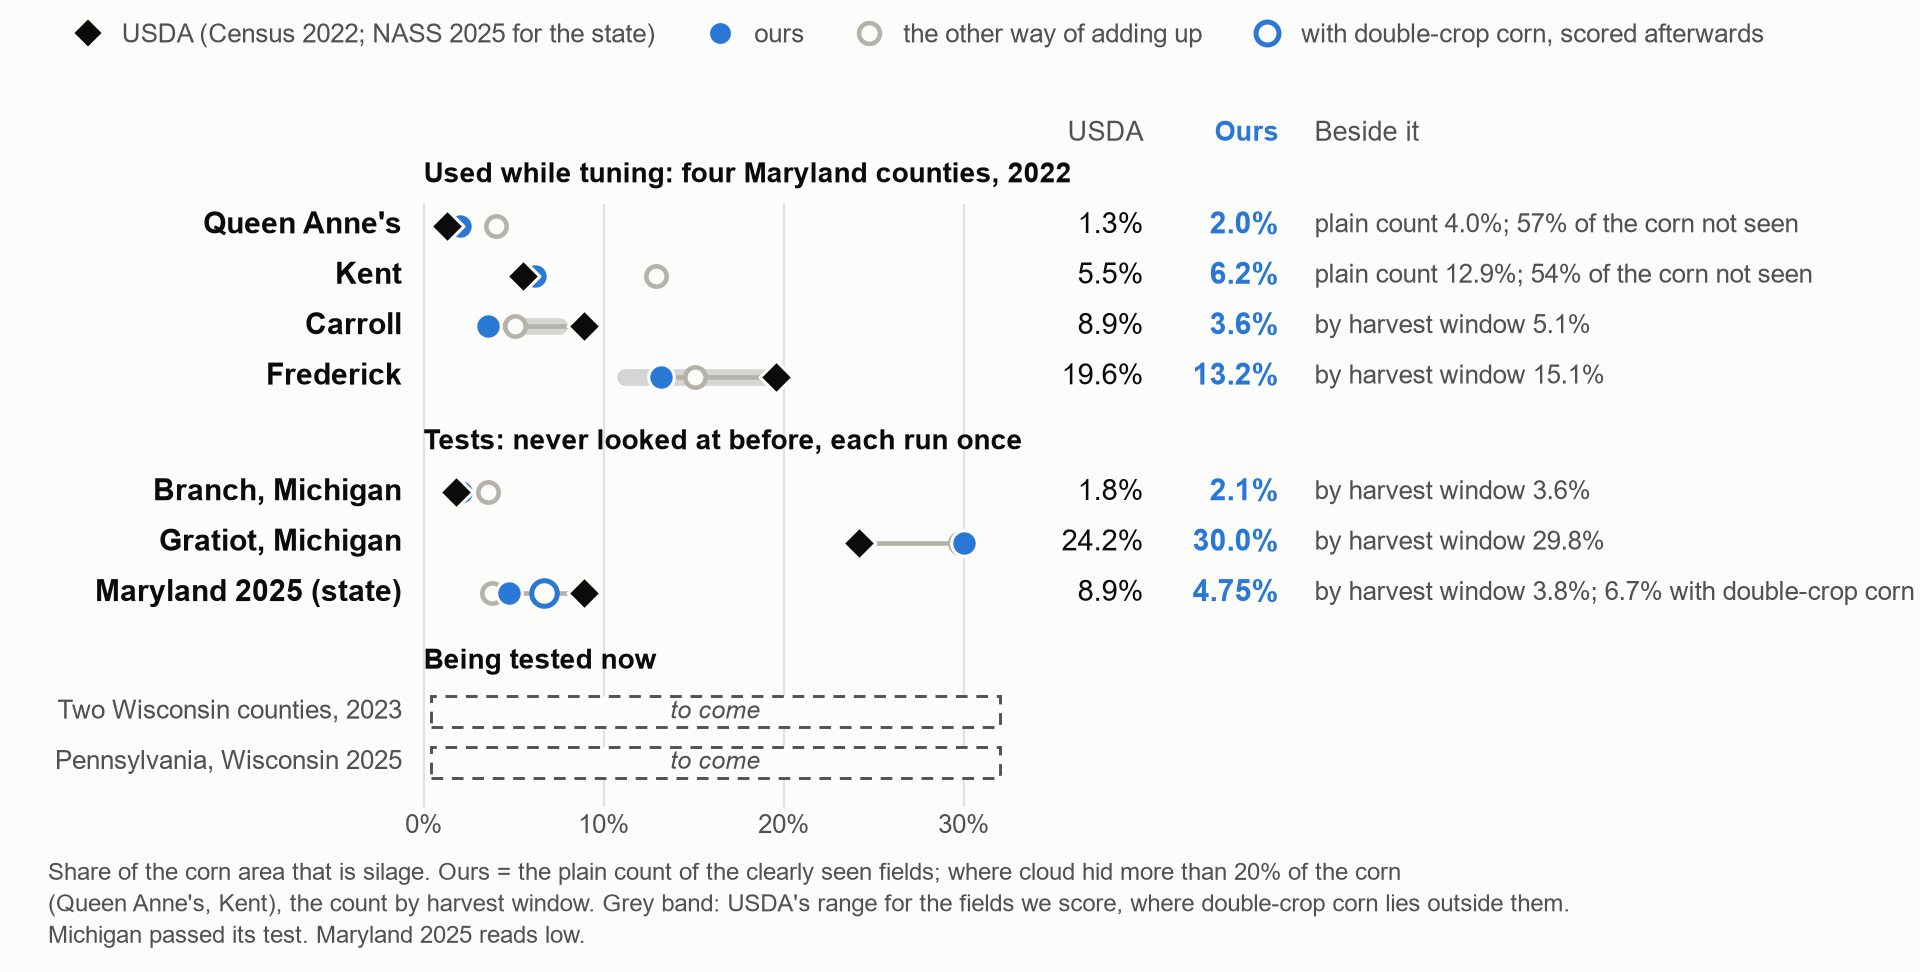
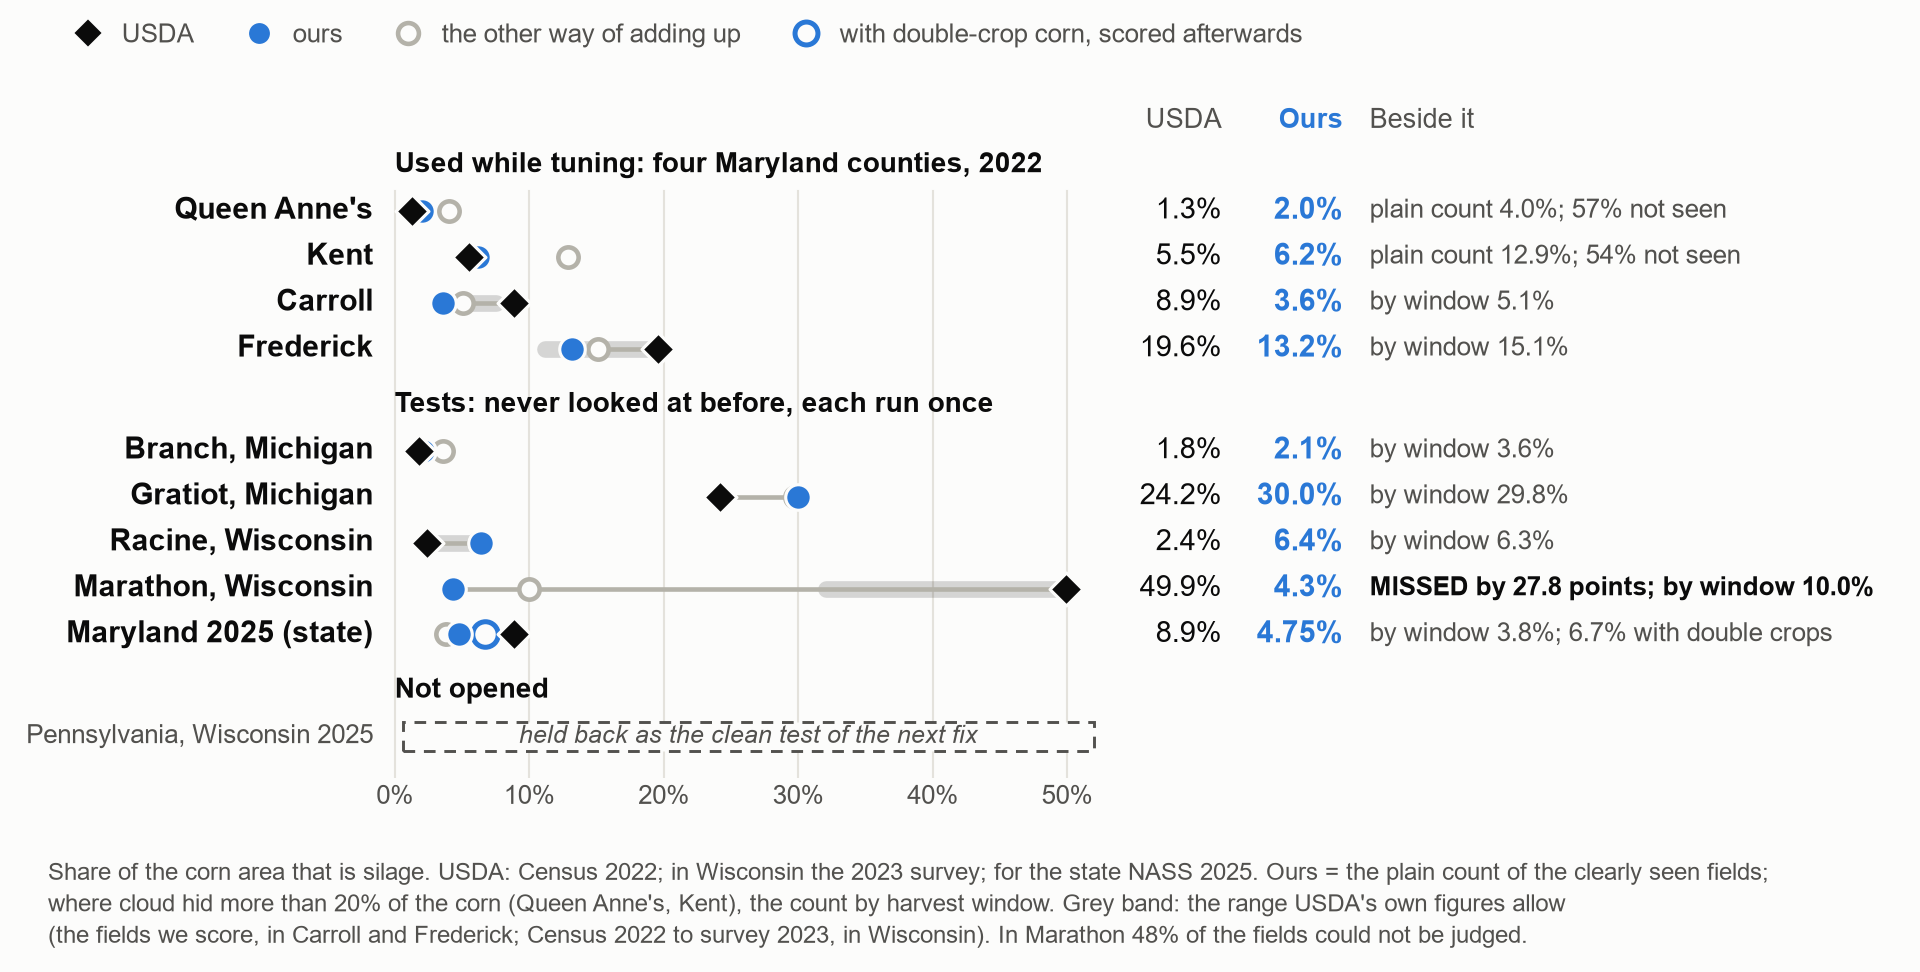
Deck: Wisconsin 2023 on the results slide with Marathon marked as a miss, the open problem in the table, the two team boxes filled

diff --git a/docs/pitch/build_deck.py b/docs/pitch/build_deck.py
@@ -221,11 +221,12 @@ def build(out):
           "我们的模型很小：六个数加一个简单公式，只用欧洲的地块训练。在美国 44 个带标签的地块上，它对了 42 个。一个大得多的模型对了 37 个。")
 
     # every place against USDA ---------------------------------------------------------------------
-    s = new_slide(prs, "Counties and a state: every place we checked against USDA")
+    s = new_slide(prs, "Against USDA: right where silage is rare, a clear miss in the heaviest dairy county")
     body_picture(s, "s05_places.png")
-    notes(s, "This is every place where we can compare our number with USDA. The four Maryland counties were used while tuning, "
-             "so they are not tests. The two Michigan counties passed their test, and Maryland 2025 reads low.",
-          "这是我们所有能和美国农业部数字对比的地方。马里兰的四个县在调优时用过，所以不算检验。密歇根两个县通过了检验，马里兰 2025 偏低。")
+    notes(s, "This is every place where we can compare our number with USDA. Where silage is rare we read right, and the Michigan "
+             "test passed. In the heaviest dairy county, Marathon in Wisconsin, we read far too low, and Maryland 2025 reads low too.",
+          "这是我们所有能和美国农业部数字对比的地方。青贮少的地方我们读得对，密歇根的检验通过了。"
+          "在奶牛最多的威斯康星 Marathon 县，我们读得太低；马里兰 2025 也偏低。")
 
     # what went wrong and what we did ----------------------------------------------------------------
     s = new_slide(prs, "What went wrong, and what we did about it")
@@ -245,16 +246,19 @@ def build(out):
          "Scored it with the same model, afterwards", "Maryland 2025: 4.75% → 6.7% (USDA 8.9%)"),
         ("The big model did not travel to a new country",
          "Dropped dates in training; tried a sequence model", "37 → 39 of 44; 0.817 against 0.765 in Europe"),
+        ("A northern dairy county reads far too low: Marathon 4% for 50%",
+         "Half its fields could not be judged. Cause under investigation now", "Open: a clear miss"),
     ]
-    rh = 0.78
+    rh = 0.66
     for i, cells in enumerate(fixes):
-        y = 1.85 + i * (rh + 0.07)
+        y = 1.85 + i * (rh + 0.06)
         card(s, MX, y, FULL, rh)
         for (x, w, _), cell, strong in zip(cols, cells, (False, False, True)):
             text(s, x + 0.2, y, w - 0.3, rh, cell, size=14, bold=strong, color=INK, anchor=MSO_ANCHOR.MIDDLE, spacing=1.05)
     notes(s, "Here is the tuning in one table. Each row is a problem the data showed us, what we did, and what came out. "
-             "One of them, early green grain, is still open.",
-          "这一页用一张表讲完调优过程：每一行是数据暴露出的一个问题、我们的做法和结果。其中一个，趁绿早收的籽粒玉米，还没有解决。")
+             "Two are still open: early green grain, and the miss in Marathon County.",
+          "这一页用一张表讲完调优过程：每一行是数据暴露出的一个问题、我们的做法和结果。"
+          "有两个还没解决：趁绿早收的籽粒玉米，以及 Marathon 县读数过低。")
 
     # the first county total ------------------------------------------------------------------
     f = N.FIRST_COUNTY_TOTAL
@@ -336,21 +340,21 @@ def build(out):
             arrow.line.fill.background()
             arrow.shadow.inherit = False
         x += w + gap
-    text(s, MX, 4.1, FULL, 0.35, "Around it, built by our teammates (one line each; they fill in the rest)", size=14, bold=True, color=INK)
+    text(s, MX, 4.1, FULL, 0.35, "Around it, built by our teammates", size=14, bold=True, color=INK)
     around = [
         ("Planner", "Which fields to visit."),
         ("Recommender", "Grain fields near dairies that are short of silage."),
         ("Picture check", "Looks at the before-and-after pictures of a field."),
-        ("Price module", "Details from the team."),
-        ("Four-state check", "Details from the team."),
+        ("Price module", "What the silage and grain split does to prices."),
+        ("Four-state check", "Checks 2025 in four states (PA, WI, IA, NE), about 300 fields each."),
     ]
     aw = (FULL - 4 * 0.25) / 5
     for i, (head, line) in enumerate(around):
         x = MX + i * (aw + 0.25)
-        card(s, x, 4.55, aw, 1.5)
+        card(s, x, 4.55, aw, 1.65)
         text(s, x + 0.2, 4.68, aw - 0.4, 0.4, head, size=15, bold=True, color=INK)
-        text(s, x + 0.2, 5.12, aw - 0.4, 0.85, line, size=12.5, spacing=1.1)
-    text(s, MX, 6.35, FULL, 0.7, "Our model is the blue box. The agent reaches it through the bridge, which loads the module with the small "
+        text(s, x + 0.2, 5.12, aw - 0.4, 1.0, line, size=12.5, spacing=1.1)
+    text(s, MX, 6.45, FULL, 0.7, "Our model is the blue box. The agent reaches it through the bridge, which loads the module with the small "
          "model behind it.", size=16, color=INK, spacing=1.15)
     notes(s, "This is the team's whole system. Our model is the blue box, and the agent calls it through a bridge. "
              "The other boxes are our teammates' parts.",
@@ -369,12 +373,12 @@ def build(out):
          "Score the double-crop corn that today's state number leaves out.\n\n"
          "A land-use hint (hay and pasture mean dairy), shown beside the satellite number.", size=16, color=INK, spacing=1.15)
     card(s, MX, 5.95, FULL, 1.0, fill=BLUE, line=None)
-    text(s, MX + 0.4, 5.95, FULL - 0.8, 1.0, "This is a preliminary baseline, checked in Maryland and in two Michigan counties. "
-         "Predictions anywhere else are examples, not verified results.", size=17, color=WHITE, anchor=MSO_ANCHOR.MIDDLE)
+    text(s, MX + 0.4, 5.95, FULL - 0.8, 1.0, "This is a preliminary baseline, checked in Maryland, two Michigan counties and two Wisconsin counties; "
+         "it missed the heaviest dairy county. Predictions anywhere else are examples, not verified results.", size=17, color=WHITE, anchor=MSO_ANCHOR.MIDDLE)
     notes(s, "The team gets a toolbox, a demo map and notebooks. Next come radar for cloudy weeks, double-crop corn, and a land-use hint. "
-             "This is a first baseline, checked in Maryland and two Michigan counties only.",
+             "This is a first baseline, checked in Maryland, Michigan and Wisconsin only, and it missed one county badly.",
           "团队拿到的是：工具箱、演示地图和笔记本。接下来要做的是：多云那几周用雷达、给双季玉米打分、加上土地利用的提示。"
-          "这只是一个初步的基线，只在马里兰和密歇根两个县检验过。")
+          "这只是一个初步的基线，只在马里兰、密歇根和威斯康星检验过，其中一个县错得很多。")
 
     # backup 1 ------------------------------------------------------------------------------------
     s = new_slide(prs, "Backup: why the simple model won")
@@ -394,15 +398,16 @@ def build(out):
          "Failures are shown as failures.", size=15, color=INK, spacing=1.15)
     text(s, MX, 4.8, FULL, 0.35, "From the log: the rule first, then the test", size=14, bold=True, color=INK)
     logged = [("16:12", "16:40", "Queen Anne's", "failed"), ("17:30", "18:11", "Kent", "failed"),
-              ("18:25", "19:11", "Michigan", "passed"), ("18:25", "19:14", "Maryland 2025", "reads low")]
-    sw = (FULL - 3 * 0.25) / 4
+              ("18:25", "19:11", "Michigan", "passed"), ("18:25", "19:14", "Maryland 2025", "reads low"),
+              ("22:55", "22:58", "Wisconsin", "failed")]
+    sw = (FULL - 4 * 0.2) / 5
     for i, (rule_at, test_at, what, result) in enumerate(logged):
-        x = MX + i * (sw + 0.25)
+        x = MX + i * (sw + 0.2)
         good = result == "passed"
         card(s, x, 5.25, sw, 1.65, fill=BLUE if good else WHITE, line=None if good else GREY)
         text(s, x + 0.25, 5.4, sw - 0.5, 0.35, f"{rule_at}  rule written", size=13, color=WHITE if good else INK2)
         text(s, x + 0.25, 5.75, sw - 0.5, 0.35, f"{test_at}  test run once", size=13, color=WHITE if good else INK2)
-        text(s, x + 0.25, 6.2, sw - 0.5, 0.5, f"{what}: {result}", size=17, bold=True, color=WHITE if good else INK)
+        text(s, x + 0.2, 6.2, sw - 0.4, 0.6, f"{what}: {result}", size=15, bold=True, color=WHITE if good else INK)
     notes(s, "Backup. Every test rule was written in a log before the test ran. "
              "The 44 labelled fields were scored three times, each time logged.",
           "备用页。每条检验规则都在检验之前写进了日志。44 个带标签的地块一共打了三次分，每次都有记录。")

diff --git a/docs/pitch/deck_figs.py b/docs/pitch/deck_figs.py
@@ -63,26 +63,42 @@ def places():
         return f"{v:.2f}%" if round(v * 100) % 10 else f"{v:.1f}%"
 
     fig = body()
-    ax = fig.add_axes([0.215, 0.17, 0.765, 0.72])
+    ax = fig.add_axes([0.2, 0.2, 0.79, 0.7])
     D.clean(ax, grid=None)
-    ax.set_xlim(-0.6, 81)
-    ax.set_ylim(-0.4, 11.4)
-    usda_x, ours_x, beside_x = 40, 47.5, 49.5
-    groups = [("tuning", "Used while tuning: four Maryland counties, 2022", 10.25),
-              ("test", "Tests: never looked at before, each run once", 5.75)]
+    ax.set_xlim(-0.8, 112)
+    usda_x, ours_x, beside_x = 61.5, 70.5, 72.5
+    step = 0.78
+    tuning = [r for r in N.PLACES if r[0] == "tuning"]
+    tests = [r for r in N.PLACES if r[0] == "test"]
+    top = 0.7 + step * (len(tuning) + len(tests) + len(N.PLACES_HELD)) + 1.9
+    ax.set_ylim(0, top + 1.15)
     y_of = {}
-    for key, head, y0 in groups:
-        ax.text(0, y0, head, fontsize=13.5, fontweight="bold", color=INK, va="center")
-        for k, row in enumerate([r for r in N.PLACES if r[0] == key]):
-            y_of[row[1]] = y0 - 0.85 - k * 0.85
-    ax.text(usda_x, 10.95, "USDA", fontsize=13, color=INK2, ha="right", va="center")
-    ax.text(ours_x, 10.95, "Ours", fontsize=13, fontweight="bold", color=BLUE, ha="right", va="center")
-    ax.text(beside_x, 10.95, "Beside it", fontsize=13, color=INK2, va="center")
+    y = top
+    ax.text(0, y, "Used while tuning: four Maryland counties, 2022", fontsize=13.5, fontweight="bold", color=INK, va="center")
+    for row in tuning:
+        y -= step
+        y_of[row[1]] = y
+    y -= 0.95
+    ax.text(0, y, "Tests: never looked at before, each run once", fontsize=13.5, fontweight="bold", color=INK, va="center")
+    for row in tests:
+        y -= step
+        y_of[row[1]] = y
+    lowest = y
+    y -= 0.95
+    ax.text(0, y, "Not opened", fontsize=13.5, fontweight="bold", color=INK, va="center")
+    for name in N.PLACES_HELD:
+        y -= step
+        ax.text(-1.6, y, name, ha="right", va="center", fontsize=12.5, color=INK2)
+        D.to_come(ax, 0.6, 52, y, "held back as the clean test of the next fix", half=0.25, size=12)
+    ax.text(usda_x, top + 0.75, "USDA", fontsize=13, color=INK2, ha="right", va="center")
+    ax.text(ours_x, top + 0.75, "Ours", fontsize=13, fontweight="bold", color=BLUE, ha="right", va="center")
+    ax.text(beside_x, top + 0.75, "Beside it", fontsize=13, color=INK2, va="center")
     for _, name, usda, band, plain, window, unseen in N.PLACES:
         y = y_of[name]
         by_window = unseen > N.NOT_SEEN_SWITCH
         ours, other = (window, plain) if by_window else (plain, window)
-        ax.text(-1.2, y, name, ha="right", va="center", fontsize=14.5, fontweight="bold", color=INK)
+        missed = N.PLACE_MISSES.get(name)
+        ax.text(-1.6, y, name, ha="right", va="center", fontsize=14.5, fontweight="bold", color=INK)
         if band:
             ax.plot(band, [y, y], color=INK, lw=8, alpha=0.16, solid_capstyle="round", zorder=1)
         ax.plot([min(usda, ours), max(usda, ours)], [y, y], color=GREY, lw=2.2, zorder=2)
@@ -92,27 +108,25 @@ def places():
         ax.text(usda_x, y, pct(usda), fontsize=14, color=INK, ha="right", va="center")
         ax.text(ours_x, y, pct(ours), fontsize=14.5, fontweight="bold", color=BLUE, ha="right", va="center")
         if by_window:
-            beside = f"plain count {pct(plain)}; {unseen:.0f}% of the corn not seen"
+            beside = f"plain count {pct(plain)}; {unseen:.0f}% not seen"
         else:
-            beside = f"by harvest window {pct(window)}"
+            beside = f"by window {pct(window)}"
         if name.startswith("Maryland 2025"):
             dc = N.STATE_2025["Maryland"]["with_double_crop_share"]
             ax.scatter([dc], [y], s=150, facecolors=BG, edgecolors=BLUE, linewidths=2.4, zorder=4)
-            beside += f"; {pct(dc)} with double-crop corn"
-        ax.text(beside_x, y, beside, fontsize=12.5, color=INK2, va="center")
-    ax.text(0, 2.05, "Being tested now", fontsize=13.5, fontweight="bold", color=INK, va="center")
-    for k, name in enumerate(N.PLACES_TO_COME):
-        y = 1.2 - k * 0.85
-        ax.text(-1.2, y, name, ha="right", va="center", fontsize=12.5, color=INK2)
-        D.to_come(ax, 0.4, 32, y, "to come", half=0.26, size=12)
-    for x in (0, 10, 20, 30):
-        ax.plot([x, x], [-0.4, 9.75], color=GRID, lw=1, zorder=0)
+            beside += f"; {pct(dc)} with double crops"
+        if missed:
+            beside = f"MISSED by {missed:g} points; " + beside
+        ax.text(beside_x, y, beside, fontsize=12.5, color=INK if missed else INK2, fontweight="bold" if missed else "normal",
+                va="center")
+    ticks = [0, 10, 20, 30, 40, 50]
+    for x in ticks:
+        ax.plot([x, x], [0, top - 0.45], color=GRID, lw=1, zorder=0)
     ax.set_yticks([])
-    ax.set_xticks([0, 10, 20, 30])
-    ax.set_xticklabels(["0%", "10%", "20%", "30%"])
+    ax.set_xticks(ticks)
+    ax.set_xticklabels([f"{t}%" for t in ticks])
     handles = [
-        plt.Line2D([], [], marker="D", ls="", markersize=10, markerfacecolor=INK, markeredgecolor=BG,
-                   label="USDA (Census 2022; NASS 2025 for the state)"),
+        plt.Line2D([], [], marker="D", ls="", markersize=10, markerfacecolor=INK, markeredgecolor=BG, label="USDA"),
         plt.Line2D([], [], marker="o", ls="", markersize=11, markerfacecolor=BLUE, markeredgecolor=BG, label="ours"),
         plt.Line2D([], [], marker="o", ls="", markersize=10, markerfacecolor=BG, markeredgecolor=GREY, markeredgewidth=2.2,
                    label="the other way of adding up"),
@@ -121,10 +135,13 @@ def places():
     ]
     fig.legend(handles=handles, loc="upper left", bbox_to_anchor=(0.02, 1.0), ncol=4, frameon=False, fontsize=12.5,
                labelcolor=INK2, handletextpad=0.3, columnspacing=1.5)
-    fig.text(0.025, 0.02, "Share of the corn area that is silage. Ours = the plain count of the clearly seen fields; where cloud hid more than "
-             f"{N.NOT_SEEN_SWITCH}% of the corn\n(Queen Anne's, Kent), the count by harvest window. "
-             "Grey band: USDA's range for the fields we score, where double-crop corn lies outside them.\n"
-             "Michigan passed its test. Maryland 2025 reads low.", fontsize=11.5, color=INK2, va="bottom", linespacing=1.4)
+    fig.text(0.025, 0.02, "Share of the corn area that is silage. USDA: Census 2022; in Wisconsin the 2023 survey; for the state NASS 2025. "
+             "Ours = the plain count of the clearly seen fields;\n"
+             f"where cloud hid more than {N.NOT_SEEN_SWITCH}% of the corn (Queen Anne's, Kent), the count by harvest window. "
+             "Grey band: the range USDA's own figures allow\n"
+             "(the fields we score, in Carroll and Frederick; Census 2022 to survey 2023, in Wisconsin). "
+             f"In Marathon {N.MARATHON_NOT_JUDGED}% of the fields could not be judged.",
+             fontsize=11.5, color=INK2, va="bottom", linespacing=1.4)
     put(fig, "s05_places")
 
 

diff --git a/docs/pitch/pitch_numbers.py b/docs/pitch/pitch_numbers.py
@@ -223,11 +223,20 @@ PLACES = [
     ("tuning", "Frederick", 19.6, (11.2, 19.9), 13.2, 15.1, 0.5),
     ("test", "Branch, Michigan", 1.8, None, 2.1, 3.6, 0.8),
     ("test", "Gratiot, Michigan", 24.2, None, 30.0, 29.8, 0.2),
+    ("test", "Racine, Wisconsin", 2.4, (2.4, 6.4), 6.4, 6.3, 0.6),
+    ("test", "Marathon, Wisconsin", 49.9, (32.1, 49.9), 4.3, 10.0, 0.4),
     ("test", "Maryland 2025 (state)", 8.9, None, 4.75, 3.8, 0.6),
 ]
+# Wisconsin 2023 (log 22:52 and 22:55 for the rule, 22:58 for the result; each county run once).
+# USDA figure: the 2023 survey; band: the official figures across sources and years (Census 2022
+# to survey 2023). Racine reads inside its band. Marathon (a seeded draw of a third of its corn)
+# reads 27.8 points below its band; 48 % of its fields could not be judged and the clearly seen
+# fields are 32 % of the area. As a pair the test FAILED.
+PLACE_MISSES = {"Marathon, Wisconsin": 27.8}
+MARATHON_NOT_JUDGED = 48
 # Which of the two is read as "ours": the plain count, except where more than 20 % of the corn
 # area lies in windows with no clear view, where it is the count by harvest window (log 19:33; on
 # everything seen so far that means Queen Anne's and Kent).
 NOT_SEEN_SWITCH = 20
-# Places being tested as this is drawn (log 22:52): no figures yet.
-PLACES_TO_COME = ["Two Wisconsin counties, 2023", "Pennsylvania, Wisconsin 2025"]
+# Not opened: kept as the clean test of the next change to the module (log 23:00).
+PLACES_HELD = ["Pennsylvania, Wisconsin 2025"]

diff --git a/docs/pitch/README.md b/docs/pitch/README.md
@@ -6,6 +6,10 @@ with its own title, so it can go on a slide as it is.
 **Status.** Michigan, Maryland 2025 and the last test on the labelled fields are in. Still to
 come: Pennsylvania and Wisconsin 2025 (a dashed "to come" mark in `state_2025.png`).
 
+**Newer than the rest of this page:** the Wisconsin 2023 test failed (Marathon County read 4.3 %
+where USDA has 32.1 to 49.9 %). The slide deck is up to date; the figures, `script.md` and
+`limits.md` of the first pack were written before it.
+
 ## The three sentences the model part stands on
 
 1. Field by field it works: trained only on European fields, the small model gets 42 of the

diff --git a/docs/pitch/limits.md b/docs/pitch/limits.md
@@ -1,5 +1,10 @@
 # What we do not claim
 
+**Written before the Wisconsin 2023 test (log 22:58), which failed.** Racine read 6.4 %, inside
+the range of USDA's figures (2.4 to 6.4 %). Marathon, the heaviest dairy county tried, read 4.3 %
+where USDA has 32.1 to 49.9 %: 27.8 points low, with 48 % of its fields not judged. The cause was
+not known when this note was added. The slide deck shows it; the rest of this page does not yet.
+
 "Log HH:MM" is a row of the evaluation access log (`<data>/eval/ACCESS_LOG.md`), named by its time
 on 14 Nov 2026 (Pacific). Everything else is a file in this repository.
 
